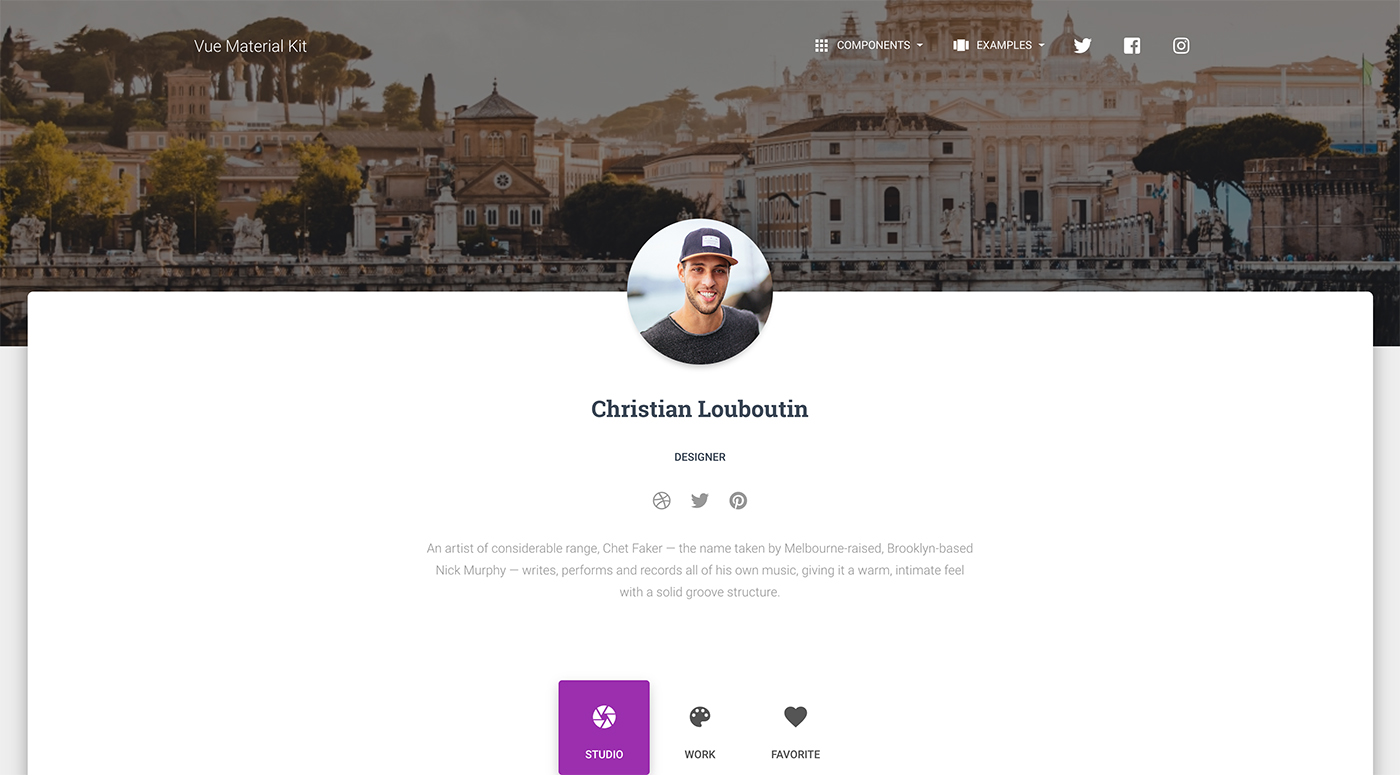
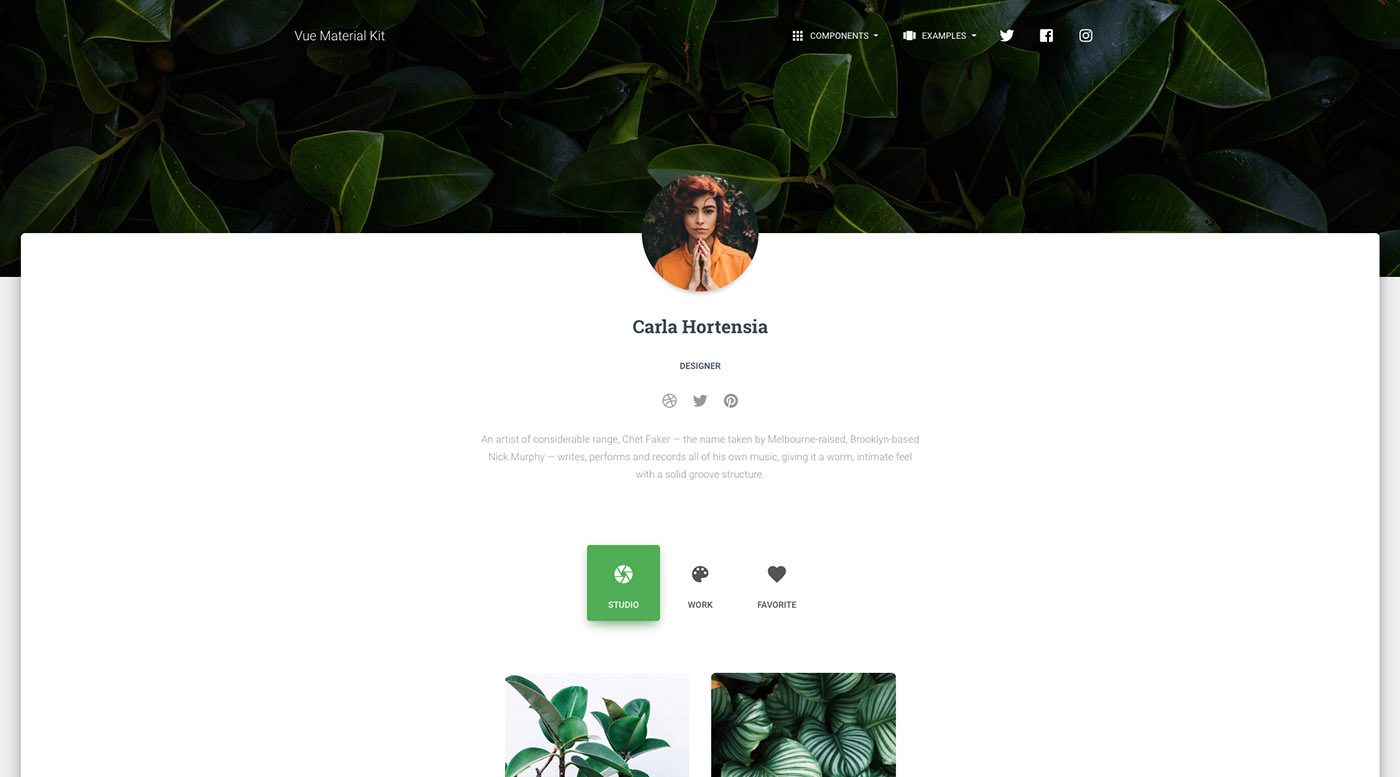
final work changes

diff --git a/src/views/Index.vue b/src/views/Index.vue
@@ -76,13 +76,13 @@
             <div class="md-layout-item md-size-33 md-medium-size-40 md-small-size-50 md-xsmall-size-70 mx-auto text-center">
               <login-card header-color="green">
                 <h4 slot="title" class="card-title">Login</h4>
-                <md-button slot="buttons" to="#facebook" class="md-just-icon md-simple md-white">
+                <md-button slot="buttons" href="javascript:void(0)" class="md-just-icon md-simple md-white">
                   <i class="fab fa-facebook-square"></i>
                 </md-button>
-                <md-button slot="buttons" to="#twitter" class="md-just-icon md-simple md-white">
+                <md-button slot="buttons" href="javascript:void(0)" class="md-just-icon md-simple md-white">
                   <i class="fab fa-twitter"></i>
                 </md-button>
-                <md-button slot="buttons" to="#google" class="md-just-icon md-simple md-white">
+                <md-button slot="buttons" href="javascript:void(0)" class="md-just-icon md-simple md-white">
                   <i class="fab fa-google-plus-g"></i>
                 </md-button>
                 <p slot="description" class="description">Or Be Classical</p>
@@ -111,7 +111,7 @@
       </div>
       <div class="md-layout">
         <div class="md-layout-item text-center">
-          <md-button href="#/login" class="md-simple md-primary md-lg">View Login Page</md-button>
+          <md-button href="#/login" class="md-simple md-success md-lg">View Login Page</md-button>
         </div>
       </div>
       <div class="section section-examples">
@@ -121,13 +121,13 @@
                     <a href="#/landing" target="_blank">
                         <img :src="landing" alt="Rounded Image" class="img-raised rounded img-fluid">
                     </a>
-                    <md-button href="#/landing" class="md-simple md-primary md-lg">View Landing Page</md-button>
+                    <md-button href="#/landing" class="md-simple md-success md-lg">View Landing Page</md-button>
                 </div>
                 <div class="md-layout-item">
                   <a href="#/profile" target="_blank">
                       <img :src="profile" alt="Rounded Image" class="img-raised rounded img-fluid">
                   </a>
-                  <md-button href="#/profile" class="md-simple md-primary md-lg">View Profile Page</md-button>
+                  <md-button href="#/profile" class="md-simple md-success md-lg">View Profile Page</md-button>
                 </div>
             </div>
         </div>
@@ -140,8 +140,8 @@
               <h4>Cause if you do, it can be yours for FREE. Hit the buttons below to navigate to our website where you can find the kit. Our friends from <a href="https://themeisle.com/?utm_campaign=mkfree-hestia&amp;utm_source=creativetim&amp;utm_medium=website" target="_blank">ThemeIsle</a> created a Wordpress Theme which can be also downloaded for free. Start a new project or give an old Bootstrap project a new look!</h4>
             </div>
             <div class="md-layout-item md-size-50 md-small-size-100 mx-auto">
-              <md-button href="https://www.creative-tim.com/product/material-kit" target="_blank" class="md-primary md-lg"><i class="fab fa-html5"></i> Free HTML Download</md-button>
-              <md-button href="https://themeisle.com/themes/hestia/?utm_campaign=mkfree-hestia&amp;utm_source=creativetim&amp;utm_medium=website" class="md-primary md-lg" target="_blank"><i class="fab fa-wordpress"></i> Wordpress Theme</md-button>
+              <md-button href="https://www.creative-tim.com/product/material-kit" target="_blank" class="md-success md-lg"><i class="fab fa-html5"></i> Free HTML Download</md-button>
+              <md-button href="https://themeisle.com/themes/hestia/?utm_campaign=mkfree-hestia&amp;utm_source=creativetim&amp;utm_medium=website" class="md-success md-lg" target="_blank"><i class="fab fa-wordpress"></i> Wordpress Theme</md-button>
             </div>
   	      </div>
     	    <br><br>
@@ -153,8 +153,8 @@
             </div>
         		<div class="md-layout-item md-size-50 md-small-size-100 mx-auto">
               <div class="btn-container">
-                <md-button href="https://www.creative-tim.com/product/vue-material-kit-pro?ref=utp-vmk-demos" class="md-button md-rose md-lg md-upgrade disabled" target="_blank"><md-icon>unarchive</md-icon>Vue Material Kit PRO</md-button>
-                <md-button href="https://www.creative-tim.com/product/vue-material-dashboard-pro?ref=utp-vmk-demos" class="md-button md-rose md-lg md-upgrade" target="_blank"><md-icon>unarchive</md-icon>Vue Material Dashboard PRO</md-button>
+                <md-button href="https://www.creative-tim.com/product/vue-material-kit-pro?ref=utp-vmk-demos" class="md-button md-success md-lg md-upgrade disabled" target="_blank"><md-icon>unarchive</md-icon>Vue Material Kit PRO</md-button>
+                <md-button href="https://www.creative-tim.com/product/vue-material-dashboard-pro?ref=utp-vmk-demos" class="md-button md-success md-lg md-upgrade" target="_blank"><md-icon>unarchive</md-icon>Vue Material Dashboard PRO</md-button>
               </div>
         		</div>
           </div>

diff --git a/src/views/Landing.vue b/src/views/Landing.vue
@@ -7,7 +7,7 @@
     				<h1 class="title">Your Story Starts With Us.</h1>
               <h4>Every landing page needs a small description after the big bold title, that's why we added this text here. Add here all the information that can make you or your product create the first impression.</h4>
               <br>
-              <md-button href="https://www.youtube.com/watch?v=dQw4w9WgXcQ" class="md-danger md-lg" target="_blank"><i class="fas fa-play"></i> Watch video</md-button>
+              <md-button href="https://www.youtube.com/watch?v=dQw4w9WgXcQ" class="md-success md-lg" target="_blank"><i class="fas fa-play"></i> Watch video</md-button>
     			</div>
         </div>
       </div>
@@ -94,7 +94,7 @@
                         <div class="md-layout-item md-size-50 mx-auto">
                           <img :src="teamImg2" alt="Thumbnail Image" class="img-raised rounded-circle img-fluid">
                         </div>
-                        <h4 class="card-title">Christian Louboutin
+                        <h4 class="card-title">Carla Hortensia
                           <br>
                           <small class="card-description text-muted">Designer</small>
                         </h4>
@@ -174,7 +174,7 @@
                   </md-field>
                   <div class="md-layout">
                     <div class="md-layout-item md-size-33 mx-auto text-center">
-                      <md-button class="md-primary">Send Message</md-button>
+                      <md-button class="md-success">Send Message</md-button>
                     </div>
                   </div>
               </form>

diff --git a/src/assets/scss/material-kit/_datepicker.scss b/src/assets/scss/material-kit/_datepicker.scss
@@ -15,6 +15,30 @@
   }
 }
 
+.md-dialog-actions .md-button {
+  &,
+  &:hover,
+  &:focus,
+  &:active,
+  &.active,
+  &:active:focus,
+  &:active:hover,
+  &.active:focus,
+  &.active:hover,
+  .open > &.dropdown-toggle,
+  .open > &.dropdown-toggle:focus,
+  .open > &.dropdown-toggle:hover {
+      background-color: $brand-success !important;
+  }
+
+  &:focus,
+  &:active,
+  &:hover{
+    // remove this line if you want black shadows
+    @include button-shadow-color($brand-success);
+  }
+}
+
 .md-datepicker-header .md-datepicker-date-select{
   font-size: 30px;
 }
@@ -48,13 +72,13 @@
 
 .md-datepicker-today,
 .md-datepicker-selected{
-  @include shadow-2dp-color($brand-primary);
+  @include shadow-2dp-color($brand-success);
   font-weight: lighter !important;
 
   &,
   &:hover,
   &:focus{
-    background-color: $brand-primary !important;
+    background-color: $brand-success !important;
     color: $white-color !important;
   }
 }
@@ -71,7 +95,7 @@
 }
 
 .md-datepicker-dialog .md-datepicker-header{
-  background: linear-gradient(60deg, $purple-400, $purple-600) !important;
+  background: linear-gradient(60deg, $green-400, $green-600) !important;
 }
 
 .md-datepicker-overlay,

diff --git a/src/views/Login.vue b/src/views/Login.vue
@@ -6,13 +6,13 @@
           <div class="md-layout-item md-size-33 md-small-size-66 md-xsmall-size-100 md-medium-size-40 mx-auto">
             <login-card header-color="green">
               <h4 slot="title" class="card-title">Login</h4>
-              <md-button slot="buttons" to="#facebook" class="md-just-icon md-simple md-white">
+              <md-button slot="buttons" href="javascript:void(0)" class="md-just-icon md-simple md-white">
                 <i class="fab fa-facebook-square"></i>
               </md-button>
-              <md-button slot="buttons" to="#twitter" class="md-just-icon md-simple md-white">
+              <md-button slot="buttons" href="javascript:void(0)" class="md-just-icon md-simple md-white">
                 <i class="fab fa-twitter"></i>
               </md-button>
-              <md-button slot="buttons" to="#google" class="md-just-icon md-simple md-white">
+              <md-button slot="buttons" href="javascript:void(0)" class="md-just-icon md-simple md-white">
                 <i class="fab fa-google-plus-g"></i>
               </md-button>
               <p slot="description" class="description">Or Be Classical</p>

diff --git a/src/assets/scss/material-kit/_inputs.scss b/src/assets/scss/material-kit/_inputs.scss
@@ -47,6 +47,13 @@
     }
   }
 
+  @include inputs-color('green', $brand-success);
+  @include inputs-color('danger', $brand-danger);
+  @include inputs-color('warning', $brand-warning);
+  @include inputs-color('rose', $brand-rose);
+  @include inputs-color('info', $brand-info);
+  @include inputs-color('primary', $brand-primary);
+
   &.md-has-textarea:not(.md-autogrow).md-focused .md-textarea, &.md-has-textarea:not(.md-autogrow).md-has-value .md-textarea{
     margin-top: 20px;
     padding-top: 0;
@@ -150,7 +157,7 @@
   }
 
   &:before{
-    background-color: $brand-primary !important;
+    background-color: $brand-success !important;
   }
 
   &.md-focused label,
@@ -169,7 +176,7 @@
 
   &.md-has-textarea:not(.md-autogrow):before{
     border-bottom: 2px solid transparent;
-    border-color: $brand-primary !important;
+    border-color: $brand-success !important;
     transform: scaleX(.12);
   }
 
@@ -212,10 +219,11 @@
   }
 
   &.md-focused > .fa,
+  &.md-focused > .md-icon,
   &.md-focused > .fas,
   &.md-focused > .fab {
 
-    color: $brand-primary;
+    color: $brand-success !important;
   }
 
   .success.md-icon,

diff --git a/src/views/components/JavascriptComponentsSection.vue b/src/views/components/JavascriptComponentsSection.vue
@@ -11,7 +11,7 @@
           </div>
           <div class="md-layout">
             <div class="md-layout-item md-size-33">
-              <md-button class="md-primary md-block" @click="classicModal = true"><md-icon>library_books</md-icon> Classic</md-button>
+              <md-button class="md-success md-block" @click="classicModal = true"><md-icon>library_books</md-icon> Classic</md-button>
               <modal v-if="classicModal" @close="classicModalHide">
                 <template slot="header">
                   <h4 class="modal-title">Modal Title</h4>
@@ -185,9 +185,9 @@ export default {
     return {
       classicModal: false,
       selectedDate: new Date("2018/03/26"),
-      carousel1: require("@/assets/img/bg.jpg"),
-      carousel2: require("@/assets/img/bg3.jpg"),
-      carousel3: require("@/assets/img/city.jpg")
+      carousel1: require("@/assets/img/nature-2.jpg"),
+      carousel2: require("@/assets/img/nature.jpg"),
+      carousel3: require("@/assets/img/nature-3.jpg")
     };
   },
   methods: {

diff --git a/src/views/Profile.vue b/src/views/Profile.vue
@@ -11,7 +11,7 @@
                   <img :src="img" alt="Circle Image" class="img-raised rounded-circle img-fluid">
                 </div>
                 <div class="name">
-                  <h3 class="title">Christian Louboutin</h3>
+                  <h3 class="title">Carla Hortensia</h3>
                   <h6>Designer</h6>
                   <md-button href="javascript:void(0)" class="md-just-icon md-simple md-dribbble"><i class="fab fa-dribbble"></i></md-button>
                   <md-button href="javascript:void(0)" class="md-just-icon md-simple md-twitter"><i class="fab fa-twitter"></i></md-button>
@@ -29,7 +29,7 @@
               :tab-icon="['camera', 'palette', 'favorite']"
               plain
               nav-pills-icons
-              color-button="primary">
+              color-button="success">
 
               <!-- here you can add your content for tab-content -->
               <template slot="tab-pane-1">

diff --git a/src/assets/scss/material-kit/_dropdown.scss b/src/assets/scss/material-kit/_dropdown.scss
@@ -54,20 +54,8 @@
         a:hover,
         a:focus,
         a:active {
-            background-color: $brand-primary !important;
-            color: #FFFFFF !important;
-        }
-    }
-    .navbar &,
-    .navbar.navbar-default &{
-        li{
-            a:hover,
-            a:focus,
-            a:active {
-                background-color: $brand-primary;
-                color: #FFFFFF;
-                @include shadow-big-color($brand-primary);
-            }
+            background-color: $brand-success !important;
+            color: $white-color !important;
         }
     }
 }

diff --git a/src/assets/scss/material-kit/_example-pages.scss b/src/assets/scss/material-kit/_example-pages.scss
@@ -42,7 +42,7 @@
         background-position: center center;
 
         &::before {
-          background: rgba(0,0,0, .5);
+          background: rgba(0,0,0, .2);
         }
     }
     .profile{
@@ -134,7 +134,7 @@
 .landing-page {
   .page-header {
     &::before {
-      background: rgba(0,0,0, .5);
+      background: rgba(0,0,0, .2);
     }
   }
 }
@@ -158,7 +158,7 @@
     min-height: -webkit-fill-available;
 
     &::before {
-      background: rgba(0,0,0, .5);
+      background: rgba(0,0,0, .2);
     }
 
     > .container {

diff --git a/src/assets/scss/material-kit/_mixins.scss b/src/assets/scss/material-kit/_mixins.scss
@@ -24,6 +24,18 @@
   }
 }
 
+@mixin inputs-color($input-class, $color) {
+  &.has-#{$input-class} {
+    &:before {
+      background-color: $color !important;
+    }
+
+    &.md-focused .md-icon {
+      color: $color !important;
+    }
+  }
+}
+
 @mixin tabs-color($color) {
   &,
   &:hover,

diff --git a/src/assets/scss/material-kit/_navbars.scss b/src/assets/scss/material-kit/_navbars.scss
@@ -101,7 +101,7 @@
 
 
   // default color for dropdown
-  @include dropdown-colors($brand-primary);
+  @include dropdown-colors($brand-success);
   @include toolbar-colors($gray-light, $white-color);
 
   &.md-white {
